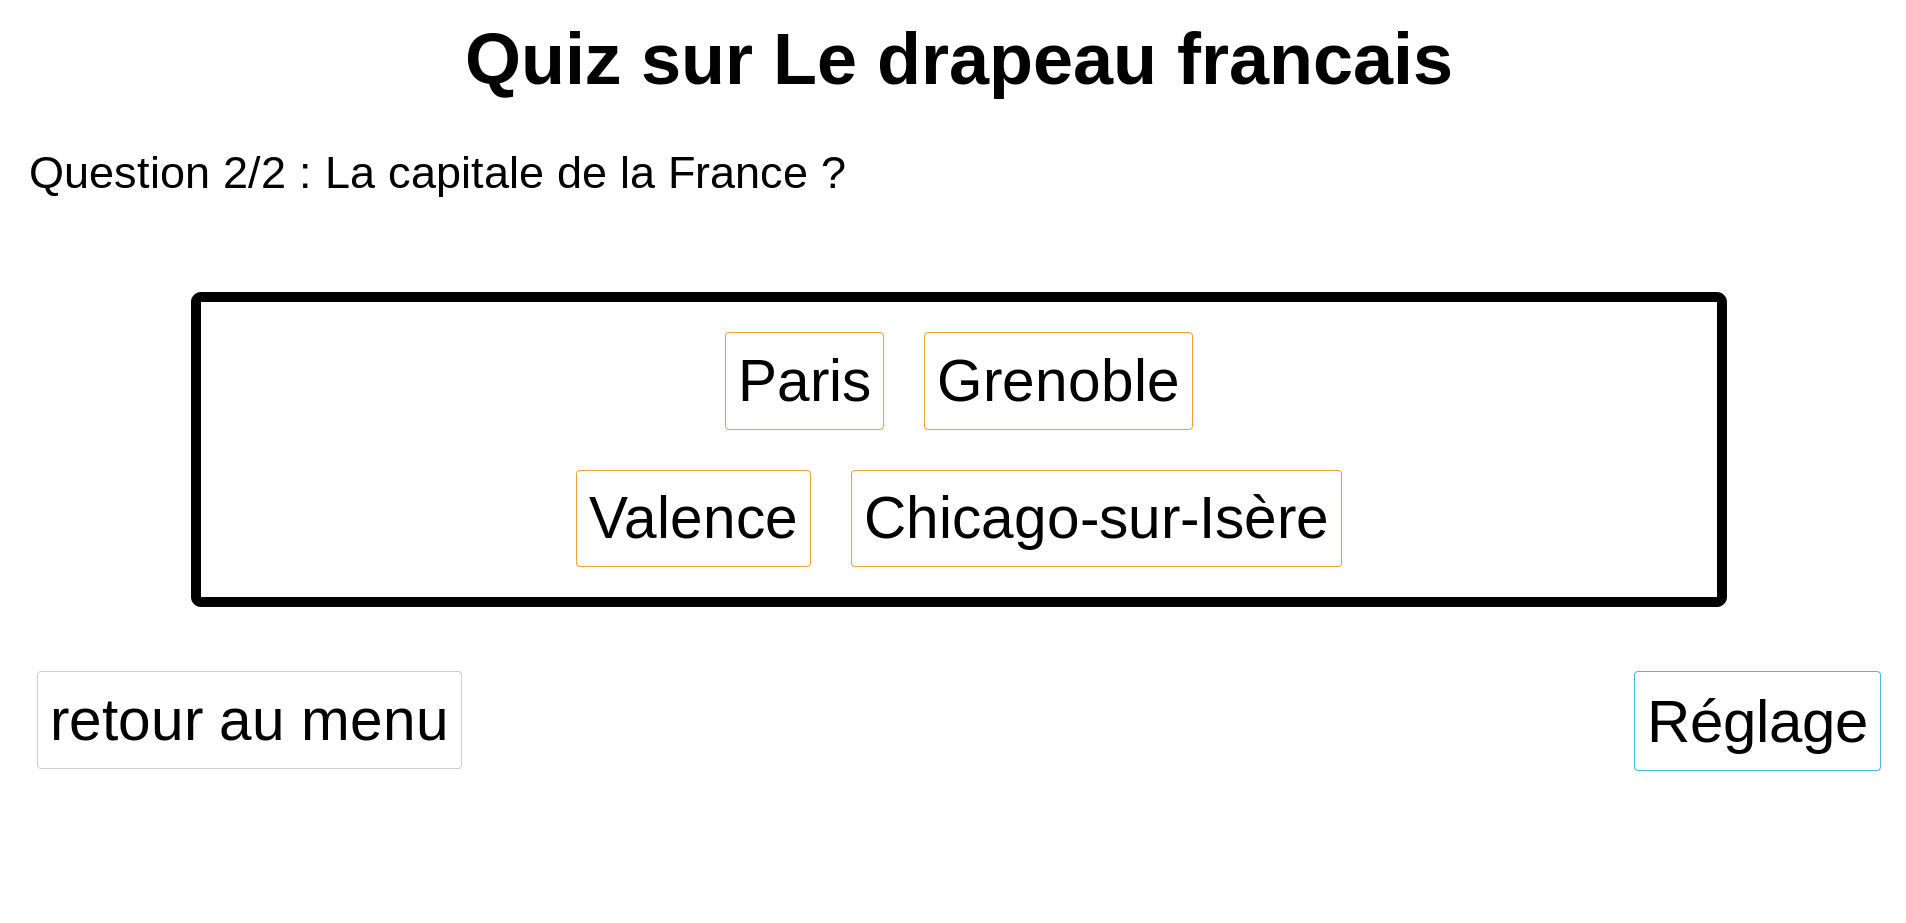
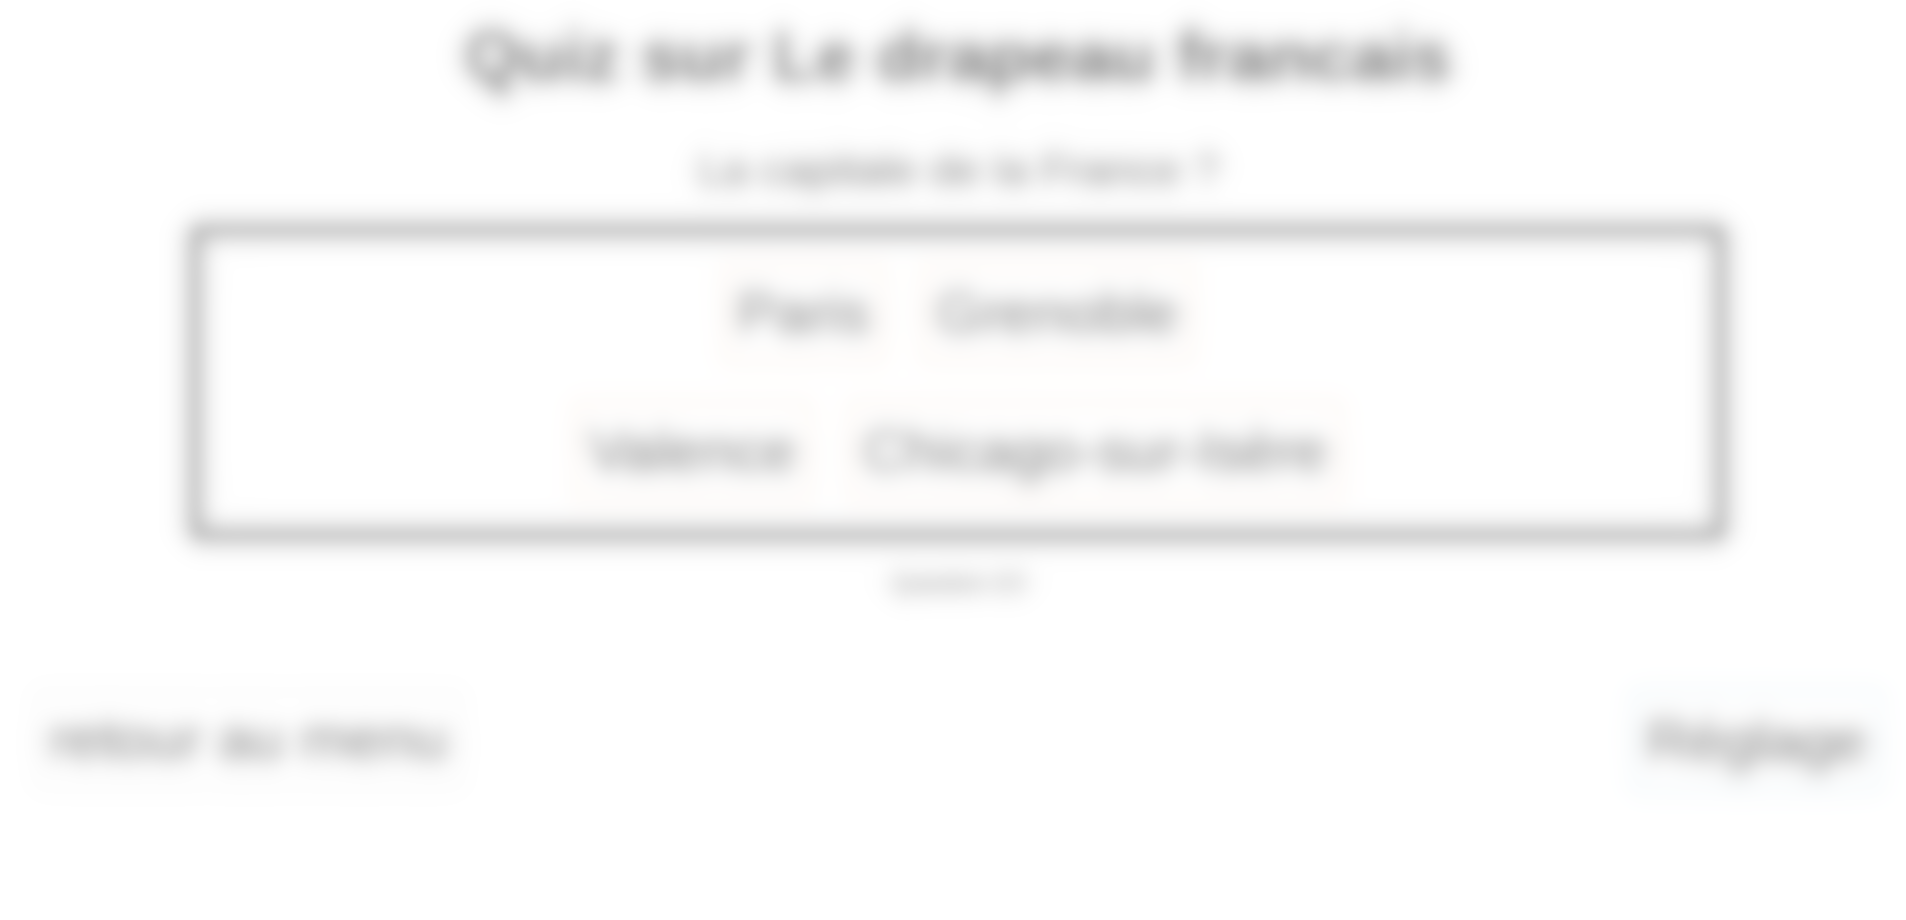
fix blur lags

diff --git a/front-end/src/app/quizz/quizz.component.html b/front-end/src/app/quizz/quizz.component.html
@@ -1,7 +1,7 @@
 
 <h1>Quiz sur {{quiz.name}}</h1>
-<h2>Question {{questionIndex}}/{{quiz.questions.length}} : {{question.label}}</h2>
-<br>
+<h2>{{question.label}}</h2>
+
 <div class="buttonGoup">
     <button class="button btn btn-warning" type='button' (click)="selectAnswer(0)">{{question.answers[0].value}}</button>
     <button class="button btn btn-warning" type='button' (click)="selectAnswer(1)">{{question.answers[1].value}}</button>
@@ -9,15 +9,13 @@
     <button class="button btn btn-warning" type='button' (click)="selectAnswer(2)">{{question.answers[2].value}}</button>
     <button class="button btn btn-warning" type='button' (click)="selectAnswer(3)">{{question.answers[3].value}}</button>
 </div>
+<h3>Question {{questionIndex}}/{{quiz.questions.length}}</h3>
 
 <div class="answerPanel" *ngIf="displayResultPanel == true">
     <p>{{answerString}}</p>
     
     <button (click)="goToNextQuestion()">go next</button>
 </div>
-
-
-
 
 <br>
 <footer>
@@ -36,10 +34,14 @@
         [data]="doughnutChartData"
         [labels]="doughnutChartLabels"
         [colors]="doughnutChartColor"
-        [legend]="doughnutChartLegend"
+        [legend]="false"
+        [options]="doughnutChartOption"
         [chartType]="doughnutChartType"></canvas>
 
     <p>{{mark}}</p>
+    <p>bonne réponse : {{validAnswerCount}}</p>
+    <p>mauvaise réponse : {{invalidAnswerCount}}</p>
+    
 
     <button routerLink="/menu">Retour au menu</button>
 </div>

diff --git a/front-end/src/app/quizz/quizz.component.ts b/front-end/src/app/quizz/quizz.component.ts
@@ -36,10 +36,14 @@ export class QuizzComponent implements OnInit
   public doughnutChartType = 'doughnut';
   public doughnutChartColor = 
   [
-    { backgroundColor: ['#008000', '#ff0000'], borderColor: ['#808080', '#808080'] }
+    { backgroundColor: ['#008000', '#ff0000'], borderWidth: [0, 0],
+  hoverBackgroundColor: ['#008000', '#ff0000'] }
   ];
-
-  public doughnutChartLegend = false;
+  public doughnutChartOption = 
+  {
+    tooltips : { enabled : false },
+    animation : { duration : 1500, easing : 'easeOutCubic' }
+  };
 
   constructor(private router: Router, public quizService: QuizService, private closeReglageService: CloseReglageService) 
   { 

diff --git a/front-end/src/app/quizz/quizz.component.scss b/front-end/src/app/quizz/quizz.component.scss
@@ -53,20 +53,20 @@
     position: absolute;
     top: 0%;
     left: 0%;
-    animation-duration: 1s;
+    animation-duration: 0.5s;
     animation-name: fadein;
-    filter: blur(10px);
+    
 }
 
 @keyframes fadein
 {
     from
     {
-        filter: blur(0px);
+        opacity: 0;
     }
     to
     {
-        filter: blur(10px);
+        opacity: 1;
     }
 }
 
@@ -79,6 +79,13 @@ h1
 
 h2
 {
+    text-align: center;
     font-size: 100%;
+    margin: 30px;
+}
+
+h3
+{
+    text-align: center;
     margin: 30px;
 }
